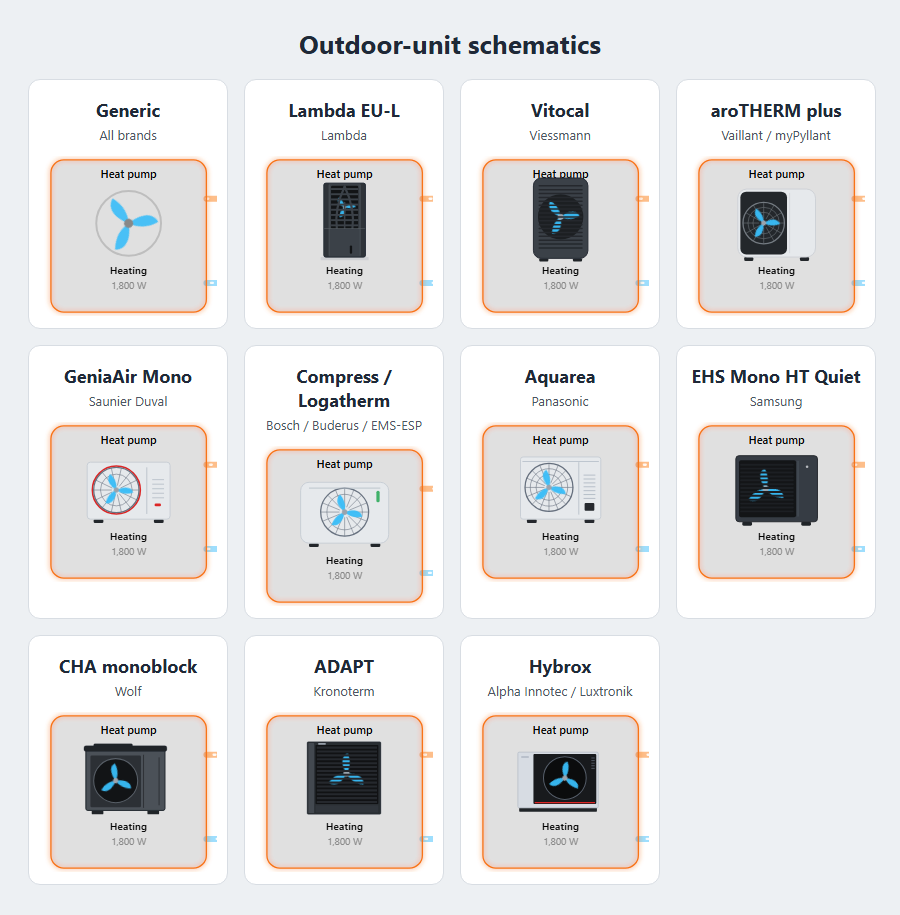
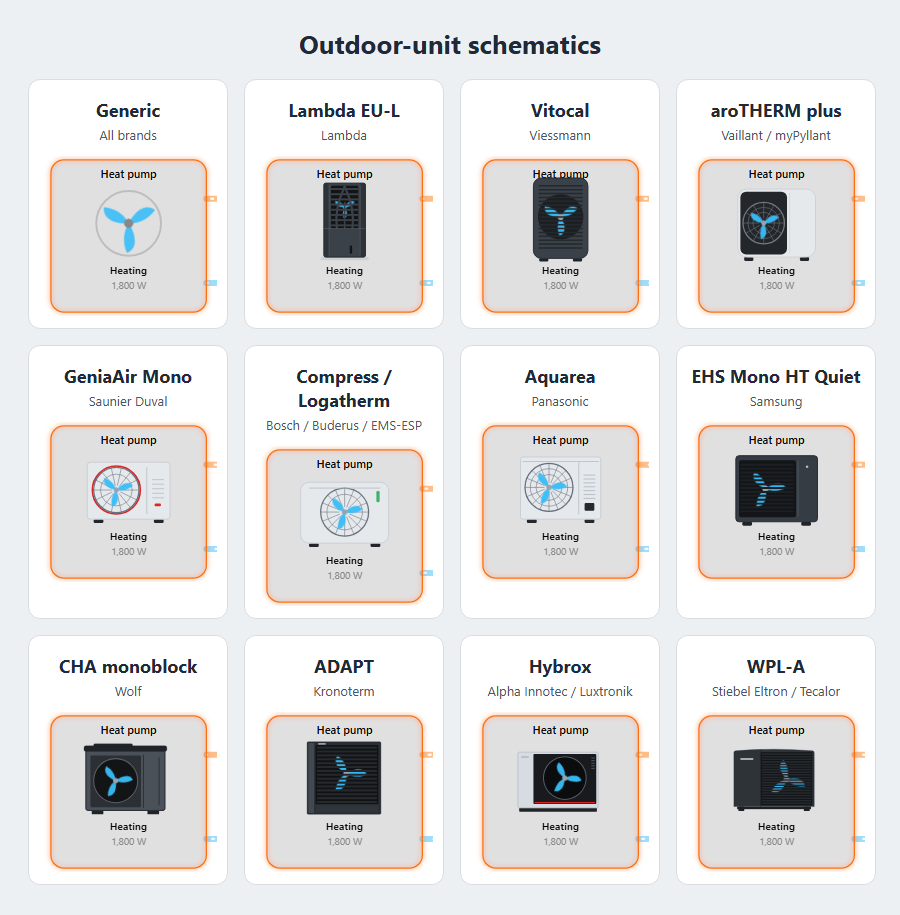
Outdoor-unit drawing for the Stiebel Eltron WPL-A (#159)
unit_style: stiebel, selected by preset: stiebel_isg for air units.
Simplified, logo-free WPL-A in front view: dark box with a slightly
arched lid, plain left panel, fine louvres over the fan, recessed base
on short feet. Brine units keep the loop symbol; LWZ integral units can
use unit_style: generic. Every preset now has its own drawing.

Topology baseline: only demo 15 (Stiebel) changes.
README, ROADMAP and docs/unit-styles.png (12 tiles) updated.

diff --git a/dist/heatpump-hydraulic-card.js b/dist/heatpump-hydraulic-card.js
@@ -862,6 +862,8 @@ const HFC_PRESETS = {
   // derives the mode from the compressor, the defrost flag and the hot water flag; cooling is not shown.
   stiebel_isg: {
     name: 'Stiebel Eltron ISG (WPM, LWZ) / Tecalor',
+    // WPL-A for air sources (the integration does not name the model); brine units keep the loop symbol (#159).
+    unit_style: 'stiebel',
     // Optional parts are mapped by their readings: the card looks again every minute for parts that report late.
     dynamic: true,
     auto_circuits: false,
@@ -1196,7 +1198,7 @@ const HFC_EDITOR = {
     power_sources: 'PV / battery / grid', ps_auto: 'Energy dashboard, unless set below', ps_manual: 'Only the sensors below',
     source_type: 'Heat source', src_air: 'Air', src_brine: 'Ground (brine)', src_water: 'Groundwater',
     hc_count: 'Heating circuits', hc2_type: 'Circuit 2 emitter', hc3_type: 'Circuit 3 emitter', hc4_type: 'Circuit 4 emitter', hc5_type: 'Circuit 5 emitter', hc6_type: 'Circuit 6 emitter',
-    unit_style: 'Unit drawing', unit_auto: 'Automatic (from the preset)', unit_generic: 'Generic (fan)', unit_lambda: 'Lambda EU-L', unit_vaillant: 'Vaillant aroTHERM plus', unit_panasonic: 'Panasonic Aquarea', unit_viessmann: 'Viessmann Vitocal', unit_bosch: 'Bosch / Buderus', unit_saunier: 'Saunier Duval GeniaAir', unit_samsung: 'Samsung EHS Mono', unit_wolf: 'Wolf CHA', unit_kronoterm: 'Kronoterm ADAPT', unit_alpha_innotec: 'Alpha Innotec Hybrox',
+    unit_style: 'Unit drawing', unit_auto: 'Automatic (from the preset)', unit_generic: 'Generic (fan)', unit_lambda: 'Lambda EU-L', unit_vaillant: 'Vaillant aroTHERM plus', unit_panasonic: 'Panasonic Aquarea', unit_viessmann: 'Viessmann Vitocal', unit_bosch: 'Bosch / Buderus', unit_saunier: 'Saunier Duval GeniaAir', unit_samsung: 'Samsung EHS Mono', unit_wolf: 'Wolf CHA', unit_kronoterm: 'Kronoterm ADAPT', unit_alpha_innotec: 'Alpha Innotec Hybrox', unit_stiebel: 'Stiebel Eltron WPL-A',
     unit_size: 'Vaillant size', size_small: '3.5 / 5.5 kW (1 fan, low)', size_medium: '7.5 kW (1 fan)', size_large: '10.5 / 12.5 kW (2 fans)',
     timeline: 'Timeline of the operating mode', timeline_hours: 'Timeline length (hours)', timeline_marks: 'Show the badges (e.g. Boost) as extra lanes',
     layout: 'Layout', layout_default: 'Default', layout_compact: 'Compact (narrow columns)', layout_wide: 'Wide (tiles beside the schematic)', layout_wall: 'Wall display (large, controls fade out)',
@@ -1263,7 +1265,7 @@ const HFC_EDITOR = {
     power_sources: 'PV / Akku / Netz', ps_auto: 'Energie-Dashboard, außer unten gesetzt', ps_manual: 'Nur die Sensoren unten',
     source_type: 'Wärmequelle', src_air: 'Luft', src_brine: 'Erdreich (Sole)', src_water: 'Grundwasser',
     hc_count: 'Heizkreise', hc2_type: 'Wärmeabgabe Heizkreis 2', hc3_type: 'Wärmeabgabe Heizkreis 3', hc4_type: 'Wärmeabgabe Heizkreis 4', hc5_type: 'Wärmeabgabe Heizkreis 5', hc6_type: 'Wärmeabgabe Heizkreis 6',
-    unit_style: 'Geräte-Zeichnung', unit_auto: 'Automatisch (aus der Voreinstellung)', unit_generic: 'Allgemein (Lüfter)', unit_lambda: 'Lambda EU-L', unit_vaillant: 'Vaillant aroTHERM plus', unit_panasonic: 'Panasonic Aquarea', unit_viessmann: 'Viessmann Vitocal', unit_bosch: 'Bosch / Buderus', unit_saunier: 'Saunier Duval GeniaAir', unit_samsung: 'Samsung EHS Mono', unit_wolf: 'Wolf CHA', unit_kronoterm: 'Kronoterm ADAPT', unit_alpha_innotec: 'Alpha Innotec Hybrox',
+    unit_style: 'Geräte-Zeichnung', unit_auto: 'Automatisch (aus der Voreinstellung)', unit_generic: 'Allgemein (Lüfter)', unit_lambda: 'Lambda EU-L', unit_vaillant: 'Vaillant aroTHERM plus', unit_panasonic: 'Panasonic Aquarea', unit_viessmann: 'Viessmann Vitocal', unit_bosch: 'Bosch / Buderus', unit_saunier: 'Saunier Duval GeniaAir', unit_samsung: 'Samsung EHS Mono', unit_wolf: 'Wolf CHA', unit_kronoterm: 'Kronoterm ADAPT', unit_alpha_innotec: 'Alpha Innotec Hybrox', unit_stiebel: 'Stiebel Eltron WPL-A',
     unit_size: 'Vaillant-Größe', size_small: '3,5 / 5,5 kW (1 Lüfter, niedrig)', size_medium: '7,5 kW (1 Lüfter)', size_large: '10,5 / 12,5 kW (2 Lüfter)',
     timeline: 'Zeitleiste der Betriebsart', timeline_hours: 'Länge der Zeitleiste (Stunden)', timeline_marks: 'Badges (z. B. Boost) als zusätzliche Spuren zeigen',
     layout: 'Layout', layout_default: 'Standard', layout_compact: 'Kompakt (schmale Spalten)', layout_wide: 'Breit (Kacheln neben dem Schema)', layout_wall: 'Wanddisplay (groß, Bedienelemente blenden aus)',
@@ -1377,7 +1379,7 @@ const HFC_MAP_KEYS = ['valve_map', 'mode_map', 'dhw_mode_map', 'buffer_mode_map'
 // How the tap water is heated: a coil in the tank, a fresh-water station on the storage, or a tank in the combined storage.
 const HFC_DHW_TYPES = ['coil', 'fresh_water', 'tank_in_tank'];
 // Drawing of the outdoor unit: `auto` takes the style of the preset; `unit_size` picks the Vaillant aroTHERM plus class.
-const HFC_UNIT_STYLES = ['auto', 'generic', 'lambda', 'vaillant', 'panasonic', 'viessmann', 'bosch', 'saunier', 'samsung', 'wolf', 'kronoterm', 'alpha_innotec'];
+const HFC_UNIT_STYLES = ['auto', 'generic', 'lambda', 'vaillant', 'panasonic', 'viessmann', 'bosch', 'saunier', 'samsung', 'wolf', 'kronoterm', 'alpha_innotec', 'stiebel'];
 const HFC_UNIT_SIZES = ['small', 'medium', 'large'];
 const HFC_EMITTERS = ['underfloor', 'radiator', 'column'];
 // Wall display: seconds the quick controls and the details toggle stay visible after the last touch or mouse move.
@@ -3362,6 +3364,20 @@ class HeatpumpFlowCard extends HTMLElement {
         snows: [[...abs(cx, cy), 18]],
       };
     }
+    if (key === 'stiebel') {
+      // WPL-A: a dark box with a slightly arched lid, a plain panel on the left, fine horizontal louvres over the fan on the right
+      // two thirds, and a recessed base on short feet.
+      const x = 54; const y = 52; const w = 124; const h = 88; const gx = x + 42; const gw = w - 45;
+      const cx = gx + gw / 2; const cy = y + 46; const r = 33;
+      const body = `M${x} ${y + h} V${y + 5} Q${x} ${y + 2} ${x + 3} ${y + 2} Q${x + w / 2} ${y - 3} ${x + w - 3} ${y + 2} Q${x + w} ${y + 2} ${x + w} ${y + 5} V${y + h} Z`;
+      const slats = Array.from({ length: 20 }, (_, n) => `<path class="stb-slat" d="M${gx + 1} ${y + 7 + n * 4} H${gx + gw - 1}"/>`).join('');
+      return {
+        below: T(`<rect class="stb-foot" x="${x + 7}" y="${y + h}" width="9" height="7" rx="1"/><rect class="stb-foot" x="${x + w - 16}" y="${y + h}" width="9" height="7" rx="1"/><rect class="stb-base" x="${x + 5}" y="${y + h}" width="${w - 10}" height="4"/><path class="stb-body" d="${body}"/><rect class="stb-grille" x="${gx}" y="${y + 4}" width="${gw}" height="${h - 6}" rx="1"/>`),
+        fans: [[...abs(cx, cy), r, 'stb-fan']],
+        above: T(`<g>${slats}</g><path class="stb-seam" d="M${gx - 1} ${y + 3} V${y + h}"/><rect class="stb-plate" x="${x + 10}" y="${y + 13}" width="20" height="3" rx="0.5"/><path class="stb-rim" d="${body}"/>`),
+        snows: [[...abs(cx, cy), 18]],
+      };
+    }
     return { below: '<circle class="fan-ring" cx="170" cy="288" r="50"/>', fans: [[170, 288, 50, '']], above: '', snows: [[170, 288, 18]] };
   }
 
@@ -4574,9 +4590,9 @@ HeatpumpFlowCard.styles = `
   .lam-plinth { fill: color-mix(in srgb, var(--primary-text-color, #1f2937) 22%, var(--card-background-color, #fff)); }
   /* a rim in the theme text colour keeps the anthracite body visible on dark cards */
   .lam-rim { fill: none; stroke: color-mix(in srgb, var(--primary-text-color, #1f2937) 48%, transparent); stroke-width: 1.4; }
-  .fan.lam-fan .blade, .fan.vai-fan .blade, .fan.pana-fan .blade, .fan.vies-fan .blade, .fan.bosch-fan .blade, .fan.sd-fan .blade, .fan.sam-fan .blade, .fan.wolf-fan .blade, .fan.kro-fan .blade, .fan.ait-fan .blade { fill: #9aa3ad; opacity: .55; }
-  .fan.lam-fan .hub, .fan.vai-fan .hub, .fan.pana-fan .hub, .fan.vies-fan .hub, .fan.bosch-fan .hub, .fan.sd-fan .hub, .fan.sam-fan .hub, .fan.wolf-fan .hub, .fan.kro-fan .hub, .fan.ait-fan .hub { fill: #9aa3ad; }
-  .fan.lam-fan.on .blade, .fan.vai-fan.on .blade, .fan.pana-fan.on .blade, .fan.vies-fan.on .blade, .fan.bosch-fan.on .blade, .fan.sd-fan.on .blade, .fan.sam-fan.on .blade, .fan.wolf-fan.on .blade, .fan.kro-fan.on .blade, .fan.ait-fan.on .blade { fill: ${hfcVar('cool')}; opacity: .95; }
+  .fan.lam-fan .blade, .fan.vai-fan .blade, .fan.pana-fan .blade, .fan.vies-fan .blade, .fan.bosch-fan .blade, .fan.sd-fan .blade, .fan.sam-fan .blade, .fan.wolf-fan .blade, .fan.kro-fan .blade, .fan.ait-fan .blade, .fan.stb-fan .blade { fill: #9aa3ad; opacity: .55; }
+  .fan.lam-fan .hub, .fan.vai-fan .hub, .fan.pana-fan .hub, .fan.vies-fan .hub, .fan.bosch-fan .hub, .fan.sd-fan .hub, .fan.sam-fan .hub, .fan.wolf-fan .hub, .fan.kro-fan .hub, .fan.ait-fan .hub, .fan.stb-fan .hub { fill: #9aa3ad; }
+  .fan.lam-fan.on .blade, .fan.vai-fan.on .blade, .fan.pana-fan.on .blade, .fan.vies-fan.on .blade, .fan.bosch-fan.on .blade, .fan.sd-fan.on .blade, .fan.sam-fan.on .blade, .fan.wolf-fan.on .blade, .fan.kro-fan.on .blade, .fan.ait-fan.on .blade, .fan.stb-fan.on .blade { fill: ${hfcVar('cool')}; opacity: .95; }
   .vai-body { fill: ${hfcVar('casing')}; stroke: color-mix(in srgb, ${hfcVar('casing')} 80%, #6b7280); stroke-width: 1.5; }
   .vai-dark, .vai-foot { fill: color-mix(in srgb, ${hfcVar('anthracite')} 60%, #000); }
   .vai-gr { fill: none; stroke: color-mix(in srgb, ${hfcVar('anthracite')} 45%, #a0a8b0); stroke-width: 2; } .vai-gr.thin { stroke-width: 1; opacity: .85; }
@@ -4630,6 +4646,13 @@ HeatpumpFlowCard.styles = `
   .ait-base { fill: color-mix(in srgb, ${hfcVar('anthracite')} 55%, #000); }
   .ait-plate { fill: color-mix(in srgb, ${hfcVar('casing')} 55%, #64748b); opacity: .7; }
   .ait-rim { fill: none; stroke: color-mix(in srgb, ${hfcVar('casing')} 62%, #64748b); stroke-width: 1.2; }
+  .stb-body { fill: color-mix(in srgb, ${hfcVar('anthracite')} 78%, #000); }
+  .stb-grille { fill: color-mix(in srgb, ${hfcVar('anthracite')} 30%, #000); }
+  .stb-slat { fill: none; stroke: color-mix(in srgb, ${hfcVar('anthracite')} 62%, #000); stroke-width: 2.4; }
+  .stb-seam { fill: none; stroke: color-mix(in srgb, ${hfcVar('anthracite')} 55%, #000); stroke-width: 1.2; }
+  .stb-base, .stb-foot { fill: color-mix(in srgb, ${hfcVar('anthracite')} 50%, #000); }
+  .stb-plate { fill: color-mix(in srgb, ${hfcVar('casing')} 70%, #94a3b8); opacity: .75; }
+  .stb-rim { fill: none; stroke: color-mix(in srgb, var(--primary-text-color, #1f2937) 42%, transparent); stroke-width: 1.2; }
   /* timeline of the operating mode */
   .timeline { margin: 8px 4px 0; }
   .tl-head { display: flex; justify-content: space-between; gap: 8px; font-size: .82em; color: var(--hfc-muted); }

diff --git a/test/selftest.html b/test/selftest.html
@@ -1465,7 +1465,7 @@
     const draw = async (setup, scen, cfg = {}) => {
       const c = mount({ ...setup.config, ...cfg }, hassOf(toStates(setup.states(scen)), setup.registry || {}, setup.energy, setup)); await wait(20);
       const q = (sel) => c.shadowRoot.querySelectorAll(sel).length;
-      const out = { lam: q('.lam-body'), vai: q('.vai-body'), pana: q('.pana-body'), vies: q('.vies-body'), bosch: q('.bosch-body'), sd: q('.sd-body'), samsung: q('.sam-body'), wolf: q('.wolf-body'), kro: q('.kro-body'), ait: q('.ait-body'), ring: q('.fan-ring'), fans: q('.fan'), snows: q('.snow'), fan2on: c.shadowRoot.getElementById('fan2')?.classList.contains('on'), snow2on: c.shadowRoot.getElementById('snow2')?.classList.contains('on'),
+      const out = { lam: q('.lam-body'), vai: q('.vai-body'), pana: q('.pana-body'), vies: q('.vies-body'), bosch: q('.bosch-body'), sd: q('.sd-body'), samsung: q('.sam-body'), wolf: q('.wolf-body'), kro: q('.kro-body'), ait: q('.ait-body'), stb: q('.stb-body'), ring: q('.fan-ring'), fans: q('.fan'), snows: q('.snow'), fan2on: c.shadowRoot.getElementById('fan2')?.classList.contains('on'), snow2on: c.shadowRoot.getElementById('snow2')?.classList.contains('on'),
         origin: c.shadowRoot.getElementById('fan')?.style.transformOrigin, ok: ok(c) };
       c.remove(); return out;
     };
@@ -1492,6 +1492,12 @@
     check(o.ait === 1 && o.ring === 0 && o.fans === 1 && o.ok, `Luxtronik air unit draws the Alpha Innotec Hybrox (${JSON.stringify(o)})`);
     o = await draw(byPreset('luxtronik'), 'defrost', { source_type: 'air' });
     check(o.ait === 1 && o.snows === 1, 'Hybrox gets one snowflake while defrosting');
+    o = await draw(byPreset('stiebel_isg'), 'heat');
+    check(o.stb === 1 && o.ring === 0 && o.fans === 1 && o.ok, `Stiebel ISG preset draws the WPL-A (${JSON.stringify(o)})`);
+    o = await draw(byPreset('stiebel_isg'), 'defrost');
+    check(o.stb === 1 && o.snows === 1, 'WPL-A gets one snowflake while defrosting');
+    o = await draw(byPreset('stiebel_isg'), 'heat', { source_type: 'brine' });
+    check(o.stb === 0 && o.ok, 'a Stiebel brine unit keeps the loop symbol');
     o = await draw(byPreset('wolf'), 'heat');
     check(o.wolf === 1 && o.ring === 0 && o.fans === 1 && o.ok, `Wolf preset draws the CHA unit (${JSON.stringify(o)})`);
     o = await draw(byPreset('wolf'), 'defrost');
@@ -1522,7 +1528,7 @@
     check(o.samsung === 1 && o.ring === 0 && o.fans === 1 && o.ok, `Samsung preset draws the EHS Mono unit (${JSON.stringify(o)})`);
     // Automatic drawing per preset, as listed in the README table "Outdoor-unit style coverage" (#151). A new preset needs an entry here.
     const unitOf = { lambda: 'lambda', vicare: 'viessmann', open3e: 'viessmann', vaillant: 'vaillant', ebusd: 'vaillant', emsesp: 'bosch', bosch_buderus_heating: 'bosch',
-      heishamon: 'panasonic', samsung: 'samsung', wolf: 'wolf', kronoterm: 'kronoterm', luxtronik: 'alpha_innotec', stiebel_isg: 'generic' };
+      heishamon: 'panasonic', samsung: 'samsung', wolf: 'wolf', kronoterm: 'kronoterm', luxtronik: 'alpha_innotec', stiebel_isg: 'stiebel' };
     const unitWrong = Object.keys(HFC_PRESETS).filter((p) => (HFC_PRESETS[p].unit_style || 'generic') !== unitOf[p]);
     check(!unitWrong.length, `every preset selects the outdoor-unit drawing the README lists (${unitWrong.join(', ') || 'all match'})`);
     check(Object.values(unitOf).every((s) => HFC_UNIT_STYLES.includes(s)), 'the expected drawings are valid unit_style values');

diff --git a/test/topology-snapshot.js b/test/topology-snapshot.js
@@ -300,26 +300,26 @@ window.HFC_TOPOLOGY_SNAPSHOT = {
   "demo 14 narrow dhw": "d3dc8ba2 a9936099",
   "demo 14 narrow defrost": "fd767054 3be2e549",
   "demo 14 narrow idle": "fd767054 aaaef5ee",
-  "demo 15 default heat": "41362f91 eef4af53",
-  "demo 15 default dhw": "10145a15 0f676b83",
-  "demo 15 default defrost": "41362f91 a1d85f15",
-  "demo 15 default idle": "41362f91 0001c9be",
-  "demo 15 compact heat": "41362f91 eef4af53",
-  "demo 15 compact dhw": "10145a15 0f676b83",
-  "demo 15 compact defrost": "41362f91 a1d85f15",
-  "demo 15 compact idle": "41362f91 0001c9be",
-  "demo 15 wide heat": "41362f91 eef4af53",
-  "demo 15 wide dhw": "10145a15 0f676b83",
-  "demo 15 wide defrost": "41362f91 a1d85f15",
-  "demo 15 wide idle": "41362f91 0001c9be",
-  "demo 15 wall heat": "41362f91 eef4af53",
-  "demo 15 wall dhw": "10145a15 0f676b83",
-  "demo 15 wall defrost": "41362f91 a1d85f15",
-  "demo 15 wall idle": "41362f91 0001c9be",
-  "demo 15 narrow heat": "41362f91 7d237eef",
-  "demo 15 narrow dhw": "10145a15 d3e4edcf",
-  "demo 15 narrow defrost": "41362f91 dbc05a1e",
-  "demo 15 narrow idle": "41362f91 250b65f5",
+  "demo 15 default heat": "d915a98c 4394ae1a",
+  "demo 15 default dhw": "8d371696 8a2580c8",
+  "demo 15 default defrost": "d915a98c 22c33afa",
+  "demo 15 default idle": "d915a98c 0ac74695",
+  "demo 15 compact heat": "d915a98c 4394ae1a",
+  "demo 15 compact dhw": "8d371696 8a2580c8",
+  "demo 15 compact defrost": "d915a98c 22c33afa",
+  "demo 15 compact idle": "d915a98c 0ac74695",
+  "demo 15 wide heat": "d915a98c 4394ae1a",
+  "demo 15 wide dhw": "8d371696 8a2580c8",
+  "demo 15 wide defrost": "d915a98c 22c33afa",
+  "demo 15 wide idle": "d915a98c 0ac74695",
+  "demo 15 wall heat": "d915a98c 4394ae1a",
+  "demo 15 wall dhw": "8d371696 8a2580c8",
+  "demo 15 wall defrost": "d915a98c 22c33afa",
+  "demo 15 wall idle": "d915a98c 0ac74695",
+  "demo 15 narrow heat": "d915a98c b8d06ec6",
+  "demo 15 narrow dhw": "8d371696 5ad83914",
+  "demo 15 narrow defrost": "d915a98c 6e3c1bcf",
+  "demo 15 narrow idle": "d915a98c 331dd324",
   "demo 16 default heat": "5deeb529 d9c39b98",
   "demo 16 default dhw": "78517bf5 f16a7192",
   "demo 16 default defrost": "5deeb529 60cd7a8d",

diff --git a/demo/index.html b/demo/index.html
@@ -107,7 +107,7 @@ let lang = ['en', 'de', 'nl'].includes(q.get('lang')) ? q.get('lang') : 'en';
 if (q.get('embed') === '1') document.body.classList.add('embed');
 let layout = ['default', 'compact', 'wide', 'wall'].includes(q.get('layout')) ? q.get('layout') : 'default';
 let theme = ['auto', 'night', 'contrast'].includes(q.get('theme')) ? q.get('theme') : 'auto';
-const unitKeys = ['auto', 'generic', 'lambda', 'vaillant-small', 'vaillant-medium', 'vaillant-large', 'panasonic', 'viessmann', 'bosch', 'saunier', 'samsung', 'wolf', 'kronoterm', 'alpha_innotec'];
+const unitKeys = ['auto', 'generic', 'lambda', 'vaillant-small', 'vaillant-medium', 'vaillant-large', 'panasonic', 'viessmann', 'bosch', 'saunier', 'samsung', 'wolf', 'kronoterm', 'alpha_innotec', 'stiebel'];
 let unit = unitKeys.includes(q.get('unit')) ? q.get('unit') : 'auto';
 let palette = q.get('palette') === 'teal' ? 'teal' : 'default';
 const palettes = { teal: { '--hfc-heat': '#14b8a6', '--hfc-hot': '#e11d48', '--hfc-flow-cold': '#5eead4', '--hfc-flow-hot': '#e11d48', '--hfc-tank-cold': '#6366f1', '--hfc-tank-hot': '#f43f5e', '--hfc-pv': '#eab308' } };
@@ -210,7 +210,7 @@ scenarios.forEach(([k, l]) => mk('states', l, k, () => { scen = k; }));
   ['auto', 'Automatic'], ['generic', 'Generic'], ['lambda', 'Lambda'],
   ['vaillant-small', 'Vaillant 3.5 / 5.5 kW'], ['vaillant-medium', 'Vaillant 7.5 kW'], ['vaillant-large', 'Vaillant 10.5 / 12.5 kW'],
   ['panasonic', 'Panasonic Aquarea'], ['viessmann', 'Viessmann Vitocal'], ['bosch', 'Bosch / Buderus'],
-  ['saunier', 'Saunier Duval GeniaAir'], ['samsung', 'Samsung EHS Mono'], ['wolf', 'Wolf CHA'], ['kronoterm', 'Kronoterm ADAPT'], ['alpha_innotec', 'Alpha Innotec Hybrox'],
+  ['saunier', 'Saunier Duval GeniaAir'], ['samsung', 'Samsung EHS Mono'], ['wolf', 'Wolf CHA'], ['kronoterm', 'Kronoterm ADAPT'], ['alpha_innotec', 'Alpha Innotec Hybrox'], ['stiebel', 'Stiebel Eltron WPL-A'],
 ].forEach(([k, l]) => mk('units', l, k, () => { unit = k; }));
 [['default', 'Default'], ['teal', 'Teal']].forEach(([k, l]) => mk('palettes', l, k, () => { palette = k; }));
 mk('display', 'English', 'en', () => { lang = 'en'; });

diff --git a/README.md b/README.md
@@ -31,7 +31,7 @@ It shows electricity flowing from **PV, battery and grid** into the heat pump, t
 | `ebusd` | **Vaillant** aroTHERM / aroTHERM plus (HMU) with a VWZ hydraulic station and sensoCOMFORT / multiMATIC controller | [ebusd](https://github.com/john30/ebusd) with Home Assistant MQTT discovery | Vaillant aroTHERM plus | mapped from and checked live on one real installation (aroTHERM plus cascade, two circuits) |
 | `wolf` | **Wolf** air/water heat pumps (CHA monoblock) with a WOLF Link gateway | [Wolf SmartSet Service](https://www.home-assistant.io/integrations/wolflink/) (core, `wolflink`) or [Wolf SmartSet (read/write)](https://github.com/tibuntu/homeassistant-wolf-smartset) (HACS, `wolf_smartset`) | Wolf CHA | `wolf_smartset` confirmed on a real installation (CHA); `wolflink` from the entity states of the same installation |
 | `luxtronik` | **Alpha Innotec**, **Novelan**, **Roth**, **Siemens**, **Elco**, **Buderus**, **Nibe**, **Wolf** heat pumps with a Luxtronik controller | [Luxtronik](https://github.com/BenPru/luxtronik) (HACS, `luxtronik2`) | Alpha Innotec Hybrox (air), loop symbol with `source_type` | untested |
-| `stiebel_isg` | **Stiebel Eltron** (WPM 3, WPM 3i, WPMsystem, LWZ) and **Tecalor** heat pumps with an ISG | [Stiebel Eltron ISG](https://github.com/pail23/stiebel_eltron_isg_component) (HACS, `stiebel_eltron_isg`) | generic fan, loop symbol with `source_type` | untested |
+| `stiebel_isg` | **Stiebel Eltron** (WPM 3, WPM 3i, WPMsystem, LWZ) and **Tecalor** heat pumps with an ISG | [Stiebel Eltron ISG](https://github.com/pail23/stiebel_eltron_isg_component) (HACS, `stiebel_eltron_isg`) | Stiebel Eltron WPL-A (air), loop symbol with `source_type` | untested |
 | `samsung` | **Samsung** EHS (Mono, Split, TDM) on the NASA bus | [esphome-samsung-nasa](https://github.com/Beormund/esphome-samsung-nasa) (ESPHome) | Samsung EHS Mono HT Quiet | tested on a real installation |
 
 Additional real-installation reports with manual entity mappings are tracked separately from preset validation:
@@ -65,7 +65,7 @@ The completed release history and the prioritized post-0.14.0 backlog are mainta
 
 - **Power sources:** PV / battery / grid → heat pump, animated whenever more than 10 W flow. Taken automatically from your **Energy dashboard** (its power sensors), or from your own sensors.
 - **Heat pump:** the fan spins while the compressor runs, faster at higher compressor modulation (or higher power, when the integration has no modulation value); the circuit pumps and the flow lines follow the modulation as well. Shows mode and sub-state, electrical power → heat output, and live COP. Defrost is shown with a snowflake, restrained vapour and an icy flow line. The frame of the block is orange while heating, red for hot water and blue while defrosting or cooling, grey in standby. A long status line wraps into mode and status. A backup / inline heater (`heater`) glows inside the unit while it runs. With a fan speed entity (`fan_speed`) the fan follows its own speed and runs on after the compressor stops. The heat pump's own **primary pump** (`primary_pump`) is drawn on the flow pipe next to the block, turning with the flow rate; the flow dashes of the pipes move in proportion to the flow rate.
-- **Unit drawing:** the heat pump block can show simplified, logo-free outdoor units for Lambda, Viessmann, Vaillant, Bosch/Buderus, Panasonic, Saunier Duval, Samsung, Wolf, Kronoterm and Alpha Innotec. Presets select a style where the integration identifies the product family; every style is also available manually. The fan spins, the blades turn blue while running, and each fan gets its own snowflake while defrosting.
+- **Unit drawing:** the heat pump block can show simplified, logo-free outdoor units for Lambda, Viessmann, Vaillant, Bosch/Buderus, Panasonic, Saunier Duval, Samsung, Wolf, Kronoterm, Alpha Innotec and Stiebel Eltron. Presets select a style where the integration identifies the product family; every style is also available manually. The fan spins, the blades turn blue while running, and each fan gets its own snowflake while defrosting.
 - **Heat source:** air (the outdoor temperature is shown under the unit; default), **ground** with a brine loop or **groundwater** with two wells (`source_type`), with source inlet and outlet temperatures and the source flow rate. Optional brine and heating-circuit pressures are normalized to bar and can show warning/critical thresholds with text symbols as well as colour.
 - **Diverter valve:** shows DHW or heating; the active circuit is animated.
 - **Tanks:** DHW tank and buffer with a top/bottom temperature gradient, optionally refined by a middle sensor (`dhw_middle`, `buffer_middle`; blue = cold, then cyan and orange, red = hot), target, mode, a heat-exchanger coil while charging, and the circulation pump. **Heater rods** (`dhw_heater`, `buffer_heater`) glow orange while on, red at stage 2 or higher. A **series buffer** (`series_buffer: true`) sits in the return of the heating circuits with a 3-way bypass valve (`bypass_valve`, or the defrost signal) so that the heat pump defrosts from the buffer water; without a bypass valve set `series_bypass: false`. A **combined storage** (`storage: combined`) is drawn as one tall tank with the hot-water zone on top and the heating zone below; the six storage sensors are heights in it. `dhw_type` draws a **fresh-water station** (beside the combined storage, or on a parallel buffer instead of a hot-water tank) or a **tank in tank**.
@@ -108,7 +108,7 @@ The completed release history and the prioritized post-0.14.0 backlog are mainta
 
 | `unit_style` | Schematic based on | Brands / families covered | Automatic selection |
 |---|---|---|---|
-| `generic` | Neutral fan symbol | Any air-source heat pump | Fallback without a known style, also `preset: stiebel_isg`; ground and groundwater sources show their loop symbol instead |
+| `generic` | Neutral fan symbol | Any air-source heat pump | Fallback without a known style; ground and groundwater sources show their loop symbol instead |
 | `lambda` | Lambda EU-L | Lambda | `preset: lambda` |
 | `viessmann` | Viessmann Vitocal 250-A | Viessmann Vitocal | `preset: vicare`, `preset: open3e` |
 | `vaillant` | Vaillant aroTHERM plus | Vaillant; default fallback for the shared myPyllant brands | `preset: vaillant` |
@@ -119,6 +119,7 @@ The completed release history and the prioritized post-0.14.0 backlog are mainta
 | `wolf` | Wolf CHA monoblock | Wolf CHA-07/10 and CHA-16/20 (same proportions) | `preset: wolf` |
 | `kronoterm` | Kronoterm ADAPT | Kronoterm ADAPT and ADAPT 2 air/water units (louvred front); brine and water units keep the loop symbol | `preset: kronoterm` |
 | `alpha_innotec` | Alpha Innotec Hybrox | Alpha Innotec air units with a Luxtronik controller; Novelan, Roth, Siemens, Elco and the other Luxtronik brands share the controller, not the casing | `preset: luxtronik` (air units) |
+| `stiebel` | Stiebel Eltron WPL-A | Stiebel Eltron WPL-A and comparable Tecalor air units with a WPM controller; LWZ integral units use `generic` | `preset: stiebel_isg` (air units) |
 
 These are deliberately simplified original drawings without manufacturer logos. Related brands can share an integration even when their enclosures differ; set `unit_style` explicitly whenever the automatic family drawing does not match the installed unit.
 
@@ -504,6 +505,8 @@ For Stiebel Eltron heat pumps (and Tecalor) with an Internet Service Gateway and
 
 The integration creates the sensors of the whole controller family, also for hardware that is not installed, and these read `unavailable`. The preset therefore maps buffer, solar collector, heat source, refrigerant circuit and heating circuits 2 and 3 only where they report a value.
 
+The integration does not name the heat pump model, so air units get the Stiebel Eltron WPL-A drawing and brine units the ground loop. An LWZ integral unit has no outdoor unit like this; set `unit_style: generic` there.
+
 What you get:
 - compressor, defrost and the hot water flag of the operating status; the card derives heating, hot water, defrost and standby from them (the integration has no status sensor, its select is the heating program). Cooling is not shown
 - flow and return of heat pump 1, its flow rate, outdoor temperature, the buffer, hot water with target, the heat source and its pressure for brine heat pumps, the solar collector where installed
@@ -577,7 +580,7 @@ Everything can be set in the **UI editor**. With a preset, the editor shows whet
 | `source_spread` | Show `source_in − source_out` on a running ground/groundwater loop (default `true`). |
 | `brine_pressure_min`, `brine_pressure_crit`, `brine_pressure_max` | Optional brine-pressure thresholds in bar. Below `crit` is critical; below `min` or above `max` is a warning. |
 | `hc_pressure_min`, `hc_pressure_crit`, `hc_pressure_max` | Optional heating-pressure thresholds in bar, with the same warning/critical logic. |
-| `unit_style` | Drawing of the outdoor unit: `auto` (default, uses the preset style), `generic`, `lambda`, `viessmann`, `vaillant`, `saunier`, `bosch`, `panasonic`, `samsung`, `wolf`, `kronoterm` or `alpha_innotec`. Ground and groundwater sources keep their loop symbol. See [Outdoor-unit style coverage](#outdoor-unit-style-coverage). |
+| `unit_style` | Drawing of the outdoor unit: `auto` (default, uses the preset style), `generic`, `lambda`, `viessmann`, `vaillant`, `saunier`, `bosch`, `panasonic`, `samsung`, `wolf`, `kronoterm`, `alpha_innotec` or `stiebel`. Ground and groundwater sources keep their loop symbol. See [Outdoor-unit style coverage](#outdoor-unit-style-coverage). |
 | `unit_size` | Vaillant aroTHERM plus class: `small` (3.5 and 5.5 kW, one fan, low), `medium` (7.5 kW, one fan, default) or `large` (10.5 and 12.5 kW, two fans). |
 | `timeline` | `true` shows a strip with the operating mode of the last hours under the schematic (needs the `mode` entity, or the `compressor` and optionally the `valve`, and the Home Assistant history). |
 | `timeline_hours` | Length of the timeline in hours, 3 to 72 (default 24). |

diff --git a/docs/ROADMAP.md b/docs/ROADMAP.md
@@ -22,7 +22,7 @@ The immediate work is evidence gathering rather than another broad feature relea
 
 ## Next low-risk work
 
-1. Treat the remaining brand drawings in [#5](https://github.com/Sturmi77/heatpump-hydraulic-card/issues/5) as one brand per change, each with its own visual and browser checks and original references. Open candidates: Stiebel Eltron, and the other Luxtronik brands (Novelan, Roth, Siemens, Elco, Nibe) if their units differ enough (Wolf CHA done in #156, Kronoterm ADAPT in #157, Alpha Innotec Hybrox in #158); air units only, brine and water units keep the loop symbol.
+1. Treat the remaining brand drawings in [#5](https://github.com/Sturmi77/heatpump-hydraulic-card/issues/5) as one brand per change, each with its own visual and browser checks and original references. Every preset now has its own drawing (Wolf CHA in #156, Kronoterm ADAPT in #157, Alpha Innotec Hybrox in #158, Stiebel Eltron WPL-A in #159). Open candidates: the other Luxtronik brands (Novelan, Roth, Siemens, Elco, Nibe) if their units differ enough; air units only, brine and water units keep the loop symbol.
 2. Map the cut-out counters of [#35](https://github.com/Sturmi77/heatpump-hydraulic-card/issues/35) in presets only from verified integration or installation data.
 
 Multiple entities per key [#23](https://github.com/Sturmi77/heatpump-hydraulic-card/issues/23) remains a separate later sprint because it changes entity resolution, calculations and the editor contract. Recorder- and time-window-based features stay outside this small-work track unless a real data set backs them; 0.13.0 added two (the PV surplus share and the DHW standby loss), each with conservative exclusion rules and documented limits.

diff --git a/changelog.d/159.md b/changelog.d/159.md
@@ -1,0 +1,1 @@
+- Outdoor-unit drawing `unit_style: stiebel`: a simplified, logo-free Stiebel Eltron WPL-A (dark box with a slightly arched lid, plain panel on the left, fine louvres over the fan on the right, recessed base on short feet). `preset: stiebel_isg` selects it for air units; brine units keep the loop symbol, LWZ integral units can use `unit_style: generic` (#159). With this every preset has its own drawing.
